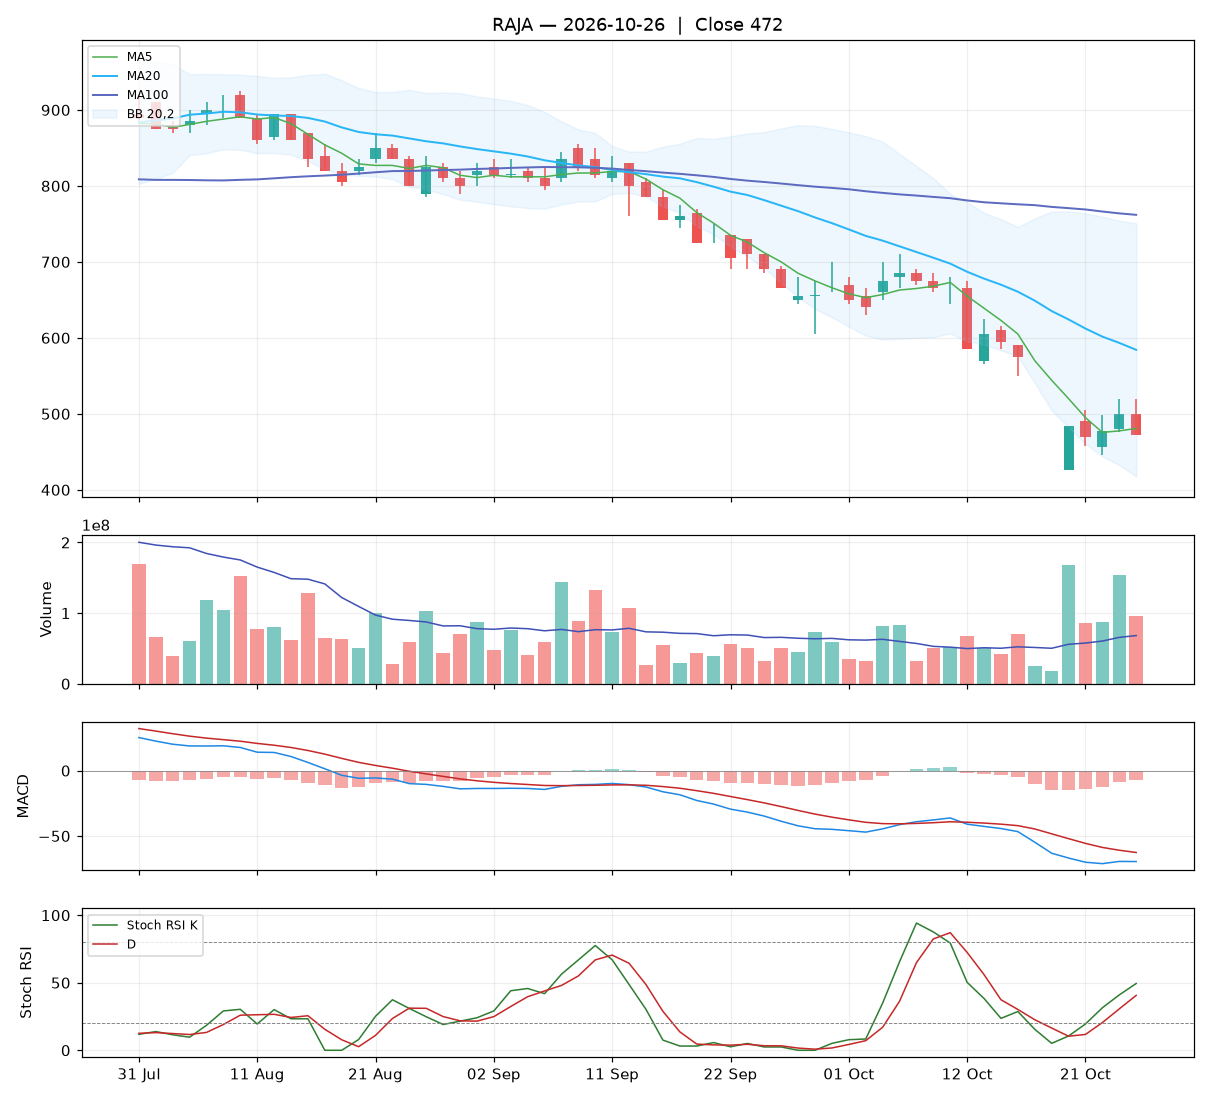
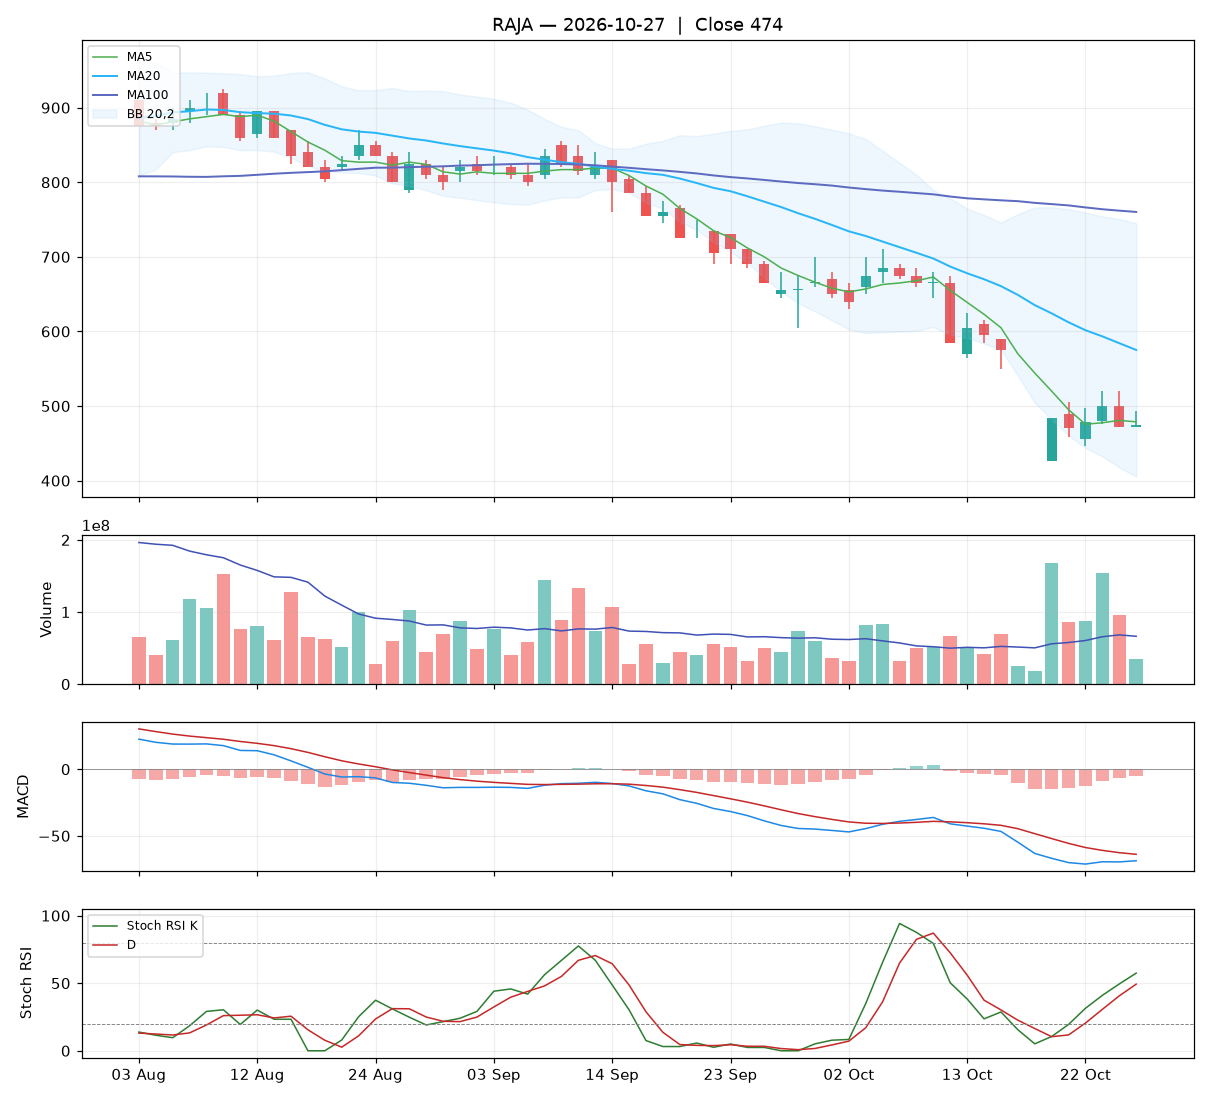
Analisa harian 2026-10-27

diff --git a/reports/RAJA/latest.md b/reports/RAJA/latest.md
@@ -1,4 +1,4 @@
-# Analisa harian RAJA — 2026-10-26
+# Analisa harian RAJA — 2026-10-27
 
 ![grafik](../../charts/RAJA/latest.png)
 
@@ -6,68 +6,68 @@
 
 | Open | High | Low | Close | Perubahan | Volume |
 |---|---|---|---|---|---|
-| 500 | 520 | 472 | **472** | -28 (-5.60%) | 95.356.100 |
+| 472 | 494 | 472 | **474** | +2 (+0.42%) | 34.555.400 |
 
-### 🔴 Keputusan teknikal: **HINDARI** — nilai total **3.2/10**
+### 🔴 Keputusan teknikal: **HINDARI** — nilai total **4.0/10**
 
 Mayoritas indikator searah turun. Bagi yang memegang, pertimbangkan batas rugi.
 
 | Aspek | Nilai | |
 |---|---|---|
 | Tren | **0.0**/10 | `░░░░░░░░░░` |
-| Volume | **4.4**/10 | `████░░░░░░` |
+| Volume | **5.9**/10 | `██████░░░░` |
 | Stochastic | **6.5**/10 | `██████░░░░` |
 | Momentum | **4.0**/10 | `████░░░░░░` |
-| Candle | **1.6**/10 | `██░░░░░░░░` |
+| Candle | **4.6**/10 | `█████░░░░░` |
 
 **Level harga (otomatis):**
 
 - Support 20 hari: 426 · Resistance 20 hari: 710
 - Batas rugi (stop loss): 426 (di bawah support atau −5%)
-- Target 1: 584 · Target 2: 710
-- Rasio untung : rugi ke target 1 = 2.44 : 1
+- Target 1: 575 · Target 2: 710
+- Rasio untung : rugi ke target 1 = 2.11 : 1
 
 ## 1. Candlestick
 
-Candle merah (ditutup turun). Badan 58% dari rentang hari ini, sumbu atas 42%, sumbu bawah 0%.
+Candle hijau (ditutup naik). Badan 9% dari rentang hari ini, sumbu atas 91%, sumbu bawah 0%.
 
-- 🔴 **Bearish engulfing** — Badan merah menelan badan hijau sebelumnya: penjual mengambil alih.
+- ⚪ **Gravestone doji** — Badan sangat kecil dengan sumbu atas panjang: pembeli sempat mendorong, tetapi penjual mengembalikan harga.
 
 ## 2. Volume
 
-- Volume hari ini 95.356.100 lembar, rata-rata 20 hari 68.232.760 (**1.40x** rata-rata).
-- Volume normal.
-- 5 hari terakhir: volume candle hijau 69%, candle merah 31%.
+- Volume hari ini 34.555.400 lembar, rata-rata 20 hari 66.298.220 (**0.52x** rata-rata).
+- Volume sepi: pergerakan hari ini kurang meyakinkan.
+- 5 hari terakhir: volume candle hijau 60%, candle merah 40%.
 
 ## 3. Stochastic & Stoch RSI
 
-- Stochastic (14,3,3): %K 20.6, %D 19.5, zona **tengah**.
-- Stoch RSI (14,14,3,3): K 49.4, D 40.6, zona **tengah**.
+- Stochastic (14,3,3): %K 20.7, %D 20.4, zona **tengah**.
+- Stoch RSI (14,14,3,3): K 57.5, D 49.3, zona **tengah**.
 - K di atas D: momentum masih naik.
 
 ## 4. Tren (Moving Average)
 
-Tren jangka pendek: **turun** (MA20 berubah -51 dalam 5 hari).
-- Harga di bawah MA5 (481).
-- Harga di bawah MA20 (584).
-- Harga di bawah MA100 (762).
+Tren jangka pendek: **turun** (MA20 berubah -49 dalam 5 hari).
+- Harga di bawah MA5 (479).
+- Harga di bawah MA20 (575).
+- Harga di bawah MA100 (760).
 
 ## 5. Bollinger Bands
 
-- Bollinger (20,2): atas 751, tengah 584, bawah 418. Posisi harga 16% dari pita bawah ke atas, lebar pita 57.0%.
+- Bollinger (20,2): atas 745, tengah 575, bawah 405. Posisi harga 20% dari pita bawah ke atas, lebar pita 59.0%.
 
 ## 6. MACD & RSI
 
-- MACD (12,26,9): garis -69.55, sinyal -62.63, histogram -6.92.
+- MACD (12,26,9): garis -68.68, sinyal -63.84, histogram -4.84.
 - Histogram membaik dibanding kemarin: tekanan turun berkurang / tekanan naik bertambah.
 - MACD masih di bawah nol: tren menengah masih lemah.
-- RSI (14): 28.1 — oversold.
+- RSI (14): 28.6 — oversold.
 
 ## 7. Support & Resistance
 
 - Support 20 hari (low terendah): 426.
 - Resistance 20 hari (high tertinggi): 710.
-- Resistance terdekat lain: MA20 584, MA100 762.
+- Resistance terdekat lain: MA20 575, MA100 760.
 
 ## 8. Fundamental (laporan keuangan)
 
@@ -75,9 +75,9 @@ Tren jangka pendek: **turun** (MA20 berubah -51 dalam 5 hari).
 
 | PER | PBV | ROE | DER | Margin laba | Pendapatan YoY | Laba YoY | Kapitalisasi |
 |---|---|---|---|---|---|---|---|
-| 15.0 | 2.61 | 19.9% | 1.13x | 14.3% | 23.4% | 205.1% | 9.98 T |
+| 16.3 | 2.61 | 19.9% | 1.13x | 14.3% | 23.4% | 205.1% | 10.02 T |
 
-Laporan keuangan emiten ini disajikan dalam **USD**. PBV dihitung ulang dengan kurs USD/IDR 18.081.
+Laporan keuangan emiten ini disajikan dalam **USD**. PBV dihitung ulang dengan kurs USD/IDR 18.136.
 
 Laporan laba rugi per kuartal (juta USD):
 
@@ -91,7 +91,7 @@ Laporan laba rugi per kuartal (juta USD):
 
 | Kondisi | Poin |
 |---|---|
-| PER 15.0x: wajar | +0.25 |
+| PER 16.3x: wajar | +0.25 |
 | ROE 20%: sangat efisien | +1.25 |
 | Margin laba bersih 14%: sehat | +0.50 |
 | Pendapatan tumbuh +23% YoY | +0.93 |
@@ -112,12 +112,12 @@ Setiap aspek mulai dari **5** (netral), lalu ditambah atau dikurangi poin di baw
 | Harga di bawah MA100 | -1.50 |
 | MA20 menurun dalam 5 hari | -1.00 |
 
-**Volume: 4.4/10** (bobot 20%)
+**Volume: 5.9/10** (bobot 20%)
 
 | Kondisi | Poin |
 |---|---|
-| Harga turun dengan volume 1.40x rata-rata 20 hari | -1.40 |
-| Volume hijau 5 hari 69% (akumulasi vs distribusi) | +0.77 |
+| Harga naik dengan volume 0.52x rata-rata 20 hari | +0.52 |
+| Volume hijau 5 hari 60% (akumulasi vs distribusi) | +0.41 |
 
 **Stochastic: 6.5/10** (bobot 20%)
 
@@ -133,15 +133,14 @@ Setiap aspek mulai dari **5** (netral), lalu ditambah atau dikurangi poin di baw
 | MACD di bawah garis sinyal | -1.50 |
 | MACD di bawah nol | -1.00 |
 | Histogram MACD membaik | +1.00 |
-| RSI 28 oversold, peluang pantulan | +0.50 |
+| RSI 29 oversold, peluang pantulan | +0.50 |
 
-**Candle: 1.6/10** (bobot 15%)
+**Candle: 4.6/10** (bobot 15%)
 
 | Kondisi | Poin |
 |---|---|
-| Badan candle merah 58% dari rentang | -0.88 |
+| Badan candle hijau 9% dari rentang | +0.14 |
 | Sumbu atas lebih panjang: ada penolakan harga tinggi | -0.50 |
-| Pola Bearish engulfing | -2.00 |
 
 
 _Laporan ini dibuat otomatis dari aturan teknikal sederhana. Bukan rekomendasi beli atau jual; selalu kombinasikan dengan analisa sendiri dan manajemen risiko._

diff --git a/reports/RAJA/2026-10-27.md b/reports/RAJA/2026-10-27.md
@@ -1,0 +1,146 @@
+# Analisa harian RAJA — 2026-10-27
+
+![grafik](../../charts/RAJA/2026-10-27.png)
+
+## Ringkasan
+
+| Open | High | Low | Close | Perubahan | Volume |
+|---|---|---|---|---|---|
+| 472 | 494 | 472 | **474** | +2 (+0.42%) | 34.555.400 |
+
+### 🔴 Keputusan teknikal: **HINDARI** — nilai total **4.0/10**
+
+Mayoritas indikator searah turun. Bagi yang memegang, pertimbangkan batas rugi.
+
+| Aspek | Nilai | |
+|---|---|---|
+| Tren | **0.0**/10 | `░░░░░░░░░░` |
+| Volume | **5.9**/10 | `██████░░░░` |
+| Stochastic | **6.5**/10 | `██████░░░░` |
+| Momentum | **4.0**/10 | `████░░░░░░` |
+| Candle | **4.6**/10 | `█████░░░░░` |
+
+**Level harga (otomatis):**
+
+- Support 20 hari: 426 · Resistance 20 hari: 710
+- Batas rugi (stop loss): 426 (di bawah support atau −5%)
+- Target 1: 575 · Target 2: 710
+- Rasio untung : rugi ke target 1 = 2.11 : 1
+
+## 1. Candlestick
+
+Candle hijau (ditutup naik). Badan 9% dari rentang hari ini, sumbu atas 91%, sumbu bawah 0%.
+
+- ⚪ **Gravestone doji** — Badan sangat kecil dengan sumbu atas panjang: pembeli sempat mendorong, tetapi penjual mengembalikan harga.
+
+## 2. Volume
+
+- Volume hari ini 34.555.400 lembar, rata-rata 20 hari 66.298.220 (**0.52x** rata-rata).
+- Volume sepi: pergerakan hari ini kurang meyakinkan.
+- 5 hari terakhir: volume candle hijau 60%, candle merah 40%.
+
+## 3. Stochastic & Stoch RSI
+
+- Stochastic (14,3,3): %K 20.7, %D 20.4, zona **tengah**.
+- Stoch RSI (14,14,3,3): K 57.5, D 49.3, zona **tengah**.
+- K di atas D: momentum masih naik.
+
+## 4. Tren (Moving Average)
+
+Tren jangka pendek: **turun** (MA20 berubah -49 dalam 5 hari).
+- Harga di bawah MA5 (479).
+- Harga di bawah MA20 (575).
+- Harga di bawah MA100 (760).
+
+## 5. Bollinger Bands
+
+- Bollinger (20,2): atas 745, tengah 575, bawah 405. Posisi harga 20% dari pita bawah ke atas, lebar pita 59.0%.
+
+## 6. MACD & RSI
+
+- MACD (12,26,9): garis -68.68, sinyal -63.84, histogram -4.84.
+- Histogram membaik dibanding kemarin: tekanan turun berkurang / tekanan naik bertambah.
+- MACD masih di bawah nol: tren menengah masih lemah.
+- RSI (14): 28.6 — oversold.
+
+## 7. Support & Resistance
+
+- Support 20 hari (low terendah): 426.
+- Resistance 20 hari (high tertinggi): 710.
+- Resistance terdekat lain: MA20 575, MA100 760.
+
+## 8. Fundamental (laporan keuangan)
+
+**Nilai fundamental: 9.4/10 — Kuat** (terpisah dari keputusan teknikal; dipakai untuk menilai kualitas perusahaan jangka panjang).
+
+| PER | PBV | ROE | DER | Margin laba | Pendapatan YoY | Laba YoY | Kapitalisasi |
+|---|---|---|---|---|---|---|---|
+| 16.3 | 2.61 | 19.9% | 1.13x | 14.3% | 23.4% | 205.1% | 10.02 T |
+
+Laporan keuangan emiten ini disajikan dalam **USD**. PBV dihitung ulang dengan kurs USD/IDR 18.136.
+
+Laporan laba rugi per kuartal (juta USD):
+
+| Periode | Pendapatan | Laba bersih |
+|---|---|---|
+| 2026-06-30 | 75.9 | 14.1 |
+| 2026-03-31 | 55.3 | 8.6 |
+| 2025-12-31 | 70.6 | 9.5 |
+| 2025-09-30 | 68.4 | 6.4 |
+| 2025-06-30 | 61.5 | 4.6 |
+
+| Kondisi | Poin |
+|---|---|
+| PER 16.3x: wajar | +0.25 |
+| ROE 20%: sangat efisien | +1.25 |
+| Margin laba bersih 14%: sehat | +0.50 |
+| Pendapatan tumbuh +23% YoY | +0.93 |
+| Laba bersih tumbuh +205% YoY | +1.50 |
+
+_Sumber: Yahoo Finance. Untuk keputusan penting, cocokkan dengan laporan resmi di idx.co.id._
+
+## 9. Cara nilai teknikal dihitung
+
+Setiap aspek mulai dari **5** (netral), lalu ditambah atau dikurangi poin di bawah ini, dan dibatasi 0–10. Nilai total = rata-rata berbobot.
+
+**Tren: 0.0/10** (bobot 25%)
+
+| Kondisi | Poin |
+|---|---|
+| Harga di bawah MA5 | -1.00 |
+| Harga di bawah MA20 | -1.50 |
+| Harga di bawah MA100 | -1.50 |
+| MA20 menurun dalam 5 hari | -1.00 |
+
+**Volume: 5.9/10** (bobot 20%)
+
+| Kondisi | Poin |
+|---|---|
+| Harga naik dengan volume 0.52x rata-rata 20 hari | +0.52 |
+| Volume hijau 5 hari 60% (akumulasi vs distribusi) | +0.41 |
+
+**Stochastic: 6.5/10** (bobot 20%)
+
+| Kondisi | Poin |
+|---|---|
+| Stochastic: K di atas D | +0.75 |
+| Stoch RSI: K di atas D | +0.75 |
+
+**Momentum: 4.0/10** (bobot 20%)
+
+| Kondisi | Poin |
+|---|---|
+| MACD di bawah garis sinyal | -1.50 |
+| MACD di bawah nol | -1.00 |
+| Histogram MACD membaik | +1.00 |
+| RSI 29 oversold, peluang pantulan | +0.50 |
+
+**Candle: 4.6/10** (bobot 15%)
+
+| Kondisi | Poin |
+|---|---|
+| Badan candle hijau 9% dari rentang | +0.14 |
+| Sumbu atas lebih panjang: ada penolakan harga tinggi | -0.50 |
+
+
+_Laporan ini dibuat otomatis dari aturan teknikal sederhana. Bukan rekomendasi beli atau jual; selalu kombinasikan dengan analisa sendiri dan manajemen risiko._

diff --git a/README.md b/README.md
@@ -9,13 +9,26 @@ Analisa teknikal otomatis untuk saham Bursa Efek Indonesia. Setiap hari bursa, G
 <!-- RINGKASAN:START -->
 | Saham | Tanggal | Close | Perubahan | Tren | Volume | Stoch | Momentum | Candle | Total | Keputusan | Fundamental |
 |---|---|---|---|---|---|---|---|---|---|---|---|
-| [RAJA](reports/RAJA/latest.md) | 2026-10-26 | 472 | -5.60% | 0.0 | 4.4 | 6.5 | 4.0 | 1.6 | **3.2** | 🔴 HINDARI | 9.4 Kuat |
+| [RAJA](reports/RAJA/latest.md) | 2026-10-27 | 474 | +0.42% | 0.0 | 5.9 | 6.5 | 4.0 | 4.6 | **4.0** | 🔴 HINDARI | 9.4 Kuat |
 <!-- RINGKASAN:END -->
 
 ## Rekomendasi teknikal
 
 <!-- REKOMENDASI:START -->
-_Muncul setelah pemindaian harian pertama._
+10 nilai teknikal tertinggi dari 81 saham likuid yang dipindai (2026-10-27). Hasil aturan mekanis, bukan rekomendasi investasi.
+
+| # | Saham | Close | Perubahan | Total | Keputusan | Tren | Volume | Stoch | Momentum | Candle |
+|---|---|---|---|---|---|---|---|---|---|---|
+| 1 | **AALI** | 9.775 | +2.89% | **8.5** | 🟢 BELI | 10.0 | 7.2 | 5.8 | 9.5 | 10.0 |
+| 2 | **AADI** | 11.800 | +2.39% | **8.1** | 🟢 BELI | 10.0 | 7.9 | 6.5 | 9.5 | 5.2 |
+| 3 | **PWON** | 292 | +2.82% | **8.0** | 🟢 BELI | 10.0 | 8.0 | 5.8 | 9.5 | 5.8 |
+| 4 | **CTRA** | 585 | +1.74% | **7.6** | 🟢 BELI | 10.0 | 6.7 | 5.0 | 7.5 | 8.5 |
+| 5 | **UNTR** | 25.750 | +3.00% | **7.4** | 🟢 BELI | 10.0 | 5.9 | 5.0 | 7.5 | 8.4 |
+| 6 | **INTP** | 5.725 | +1.78% | **7.3** | 🟢 BELI | 10.0 | 7.1 | 2.0 | 9.5 | 7.3 |
+| 7 | **AKRA** | 1.460 | +4.29% | **7.1** | 🟢 BELI | 8.0 | 7.8 | 5.8 | 7.5 | 6.0 |
+| 8 | **ADRO** | 2.490 | +1.63% | **7.1** | 🟢 BELI | 8.0 | 6.6 | 5.8 | 7.5 | 7.4 |
+| 9 | **ELSA** | 660 | +3.12% | **7.1** | 🟢 BELI | 8.0 | 6.5 | 5.8 | 7.5 | 7.4 |
+| 10 | **JSMR** | 2.800 | +3.70% | **7.0** | 🟢 BELI | 8.0 | 8.1 | 5.0 | 7.5 | 6.2 |
 <!-- REKOMENDASI:END -->
 
 Setiap hari bursa, semua saham di `universe.txt` (±85 saham likuid) dinilai dengan aturan yang sama. Saham dengan rata-rata transaksi di bawah Rp 5 miliar/hari dilewati. Daftar lengkap dan alasannya ada di tab **Rekomendasi** di dashboard. Ubah daftar saham di `universe.txt` dan batas likuiditas di `screener.py`.
@@ -23,7 +36,7 @@ Setiap hari bursa, semua saham di `universe.txt` (±85 saham likuid) dinilai den
 ## Portofolio saya
 
 <!-- PORTOFOLIO:START -->
-_Belum ada posisi. Isi `transaksi.csv`._
+_Portofolio tidak ditampilkan di repo. Lihat di dashboard (perlu login)._
 <!-- PORTOFOLIO:END -->
 
 ## Isi laporan
